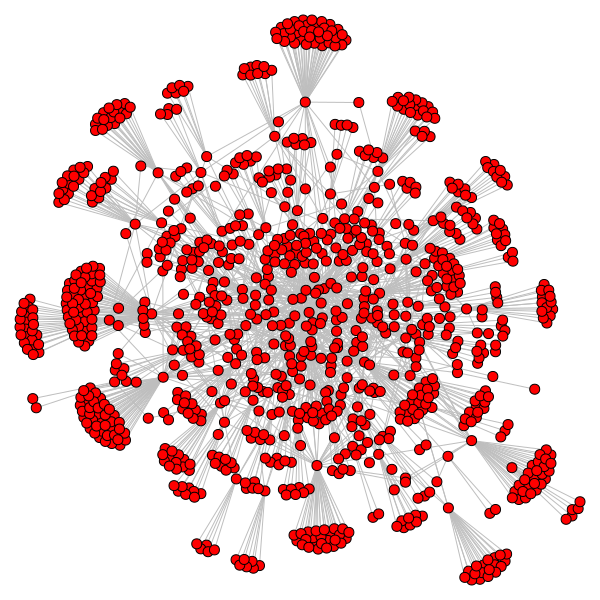
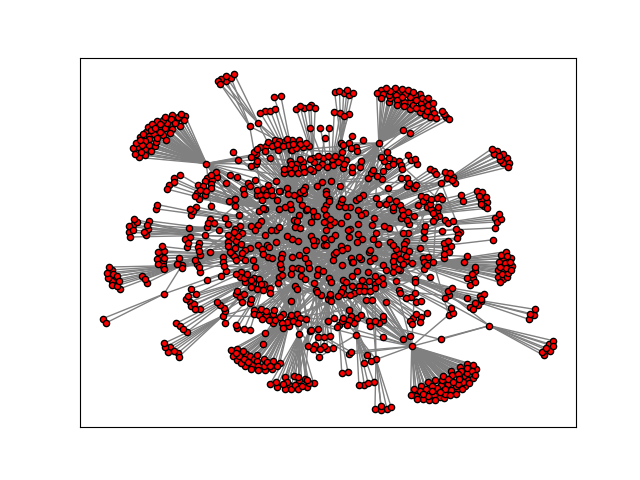
Restructure code into functions

diff --git a/demo.py b/demo.py
@@ -15,114 +15,169 @@
 from dimod import DiscreteQuadraticModel
 from dwave.system import LeapHybridDQMSampler
 import networkx as nx
-import matplotlib.pyplot as plt
-import igraph as ig
+import argparse
+import matplotlib
+try:
+    import matplotlib.pyplot as plt
+except ImportError:
+    matplotlib.use("agg")
+    import matplotlib.pyplot as plt
 
-print("\nReading in graph...")
+def read_in_args():
+    """ Read in user specified parameters or use defaults."""
 
-# Karate club graph: 33 nodes
-# G = nx.karate_club_graph()
+    # Set up user-specified optional arguments
+    parser = argparse.ArgumentParser()
+    parser.add_argument("-g", "--graph", default='karate', choices=['karate', 'internet', 'HEP'], help='Graph to partition (default: %(default)s)')
+    parser.add_argument("-n", "--nodes", help="Set graph size for internet graph. Must be between 1000 and 10000. (default: %(default)s)", default=1000, type=int)
 
-# Internet AS network graph
-G = nx.random_internet_as_graph(1000)
+    args = parser.parse_args()
+    
+    if args.graph == 'karate':
+        print("\nReading in karate graph...")
+        G = nx.karate_club_graph()
+    elif args.graph == 'internet':
+        if args.nodes < 1000 or args.nodes > 10000:
+            args.nodes = 1000
+            print("\nSize for internet graph must be between 1000 and 10000.\nSetting size to 1000.\n")
+        print("\nReading in internet graph of size", args.nodes, "...")
+        G = nx.random_internet_as_graph(args.nodes)
+    elif args.graph == 'HEP':
+        print("\nReading in HEP graph (this will take a while)...")
+        G = nx.read_pajek("hep-th-new.net")
 
-# HEP graph (HUGE and slow)
-# G = nx.read_pajek("hep-th-new.net")
+    return G
 
 # Visualize the input graph
-g1 = ig.Graph(len(G), list(zip(*list(zip(*nx.to_edgelist(G)))[:2])))
-layout = g1.layout("kk")
-visual_style = {}
-visual_style["vertex_size"] = 10
-visual_style["edge_color"] = ["gray"]
-ig.plot(g1, "input_graph.png", **visual_style)
+def visualize_input_graph(G):
+    """ Visualize graph to be partitioned."""
 
-# Two groups (cases 0, 1) and one separator group (case 2)
-num_groups = 3
+    pos = nx.spring_layout(G)
+    nx.draw_networkx_nodes(G, pos, node_size=20, node_color='r', edgecolors='k')
+    nx.draw_networkx_edges(G, pos, edgelist=G.edges(), style='solid', edge_color='#808080')
+    plt.draw()
+    plt.savefig('input_graph.png')
+    plt.close()
 
-# Lagrange parameter on constraint
-gamma = 1
+def build_dqm(G):
+    """ Build the DQM for the problem instance."""
 
-# Initialize the DQM object
-print("\nBuilding DQM...")
-dqm = DiscreteQuadraticModel()
+    # Two groups (cases 0, 1) and one separator group (case 2)
+    num_groups = 3
 
-# Build the DQM starting by adding variables
-for name in G.nodes():
-    dqm.add_variable(num_groups, label=name)
+    # Lagrange parameter on constraints
+    gamma_1 = 1
+    gamma2 = 100
 
-# Add objective to DQM
-for name in G.nodes():
-    dqm.set_linear_case(name, 2, 1)
+    # Initialize the DQM object
+    print("\nBuilding DQM...")
+    dqm = DiscreteQuadraticModel()
 
-# Add constraint to DQM: |G1|=|G2|
-all_nodes_ordered = list(G.nodes())
-# print(all_nodes_ordered[0])
-for i in range(len(all_nodes_ordered)):
-    dqm.set_linear_case(all_nodes_ordered[i], 0, gamma)
-    dqm.set_linear_case(all_nodes_ordered[i], 1, gamma)
-    for j in range(i+1, len(all_nodes_ordered)):
-        dqm.set_quadratic_case(all_nodes_ordered[i], 0, all_nodes_ordered[j], 0, 2*gamma)
-        dqm.set_quadratic_case(all_nodes_ordered[i], 1, all_nodes_ordered[j], 1, 2*gamma)
-        dqm.set_quadratic_case(all_nodes_ordered[i], 0, all_nodes_ordered[j], 1, -2*gamma)
-        dqm.set_quadratic_case(all_nodes_ordered[i], 1, all_nodes_ordered[j], 0, -2*gamma)
+    # Build the DQM starting by adding variables
+    for name in G.nodes():
+        dqm.add_variable(num_groups, label=name)
 
-# Add constraint to DQM: e(G1, G2) = 0
-gamma2 = 100
-for a, b in G.edges():
-    if a != b:
-        dqm.set_quadratic_case(a, 0, b, 1, gamma2)
-        dqm.set_quadratic_case(a, 1, b, 0, gamma2)
+    # Add objective to DQM
+    for name in G.nodes():
+        dqm.set_linear_case(name, 2, 1)
 
-# Initialize the DQM solver
-print("\nSending to the DQM solver...")
-sampler = LeapHybridDQMSampler()
+    # Add constraint to DQM: |G1|=|G2|
+    all_nodes_ordered = list(G.nodes())
+    for i in range(len(all_nodes_ordered)):
+        dqm.set_linear_case(all_nodes_ordered[i], 0, gamma_1)
+        dqm.set_linear_case(all_nodes_ordered[i], 1, gamma_1)
+        for j in range(i+1, len(all_nodes_ordered)):
+            dqm.set_quadratic_case(all_nodes_ordered[i], 0, all_nodes_ordered[j], 0, 2*gamma_1)
+            dqm.set_quadratic_case(all_nodes_ordered[i], 1, all_nodes_ordered[j], 1, 2*gamma_1)
+            dqm.set_quadratic_case(all_nodes_ordered[i], 0, all_nodes_ordered[j], 1, -2*gamma_1)
+            dqm.set_quadratic_case(all_nodes_ordered[i], 1, all_nodes_ordered[j], 0, -2*gamma_1)
 
-# Solve the problem using the DQM solver
-sampleset = sampler.sample_dqm(dqm, label='Example - Immunization Strategy')
+    # Add constraint to DQM: e(G1, G2) = 0
+    for a, b in G.edges():
+        if a != b:
+            dqm.set_quadratic_case(a, 0, b, 1, gamma2)
+            dqm.set_quadratic_case(a, 1, b, 0, gamma2)
 
-# Get the first solution, and print it
-sample = sampleset.first.sample
-energy = sampleset.first.energy
+    return dqm
 
-# Visualize output
-print("\nVisualizing output...")
-group_1 = []
-group_2 = []
-sep_group = []
-for key, val in sample.items():
-    if val == 0:
-        group_1.append(key)
-    elif val == 1:
-        group_2.append(key)
-    else:
-        sep_group.append(key)
+def run_dqm_and_collect_solutions(dqm, sampler):
+    """ Send the DQM to the sampler and return the best sample found."""
 
-# Display best result
-print("\nPartition Found:")
-print("\tGroup 1: \tSize", len(group_1))
-print("\tGroup 2: \tSize", len(group_2))
-print("\tSeparator: \tSize", len(sep_group))
+    # Initialize the solver
+    print("\nSending to the solver...")
+    
+    # Solve the DQM problem using the solver
+    sampleset = sampler.sample_dqm(dqm, label='Example - Immunization Strategy')
 
-illegal_edges = [(u, v) for u, v in G.edges if ({sample[u], sample[v]} == {0, 1})]
+    # Get the first solution, and print it
+    sample = sampleset.first.sample
 
-print("\nNumber of illegal edges:\t", len(illegal_edges))
+    return sample
 
-G1 = G.subgraph(group_1)
-G2 = G.subgraph(group_2)
-SG = G.subgraph(sep_group)
+def process_sample(G, sample):
+    """ Interpret the DQM solution in terms of the partitioning problem."""
 
-pos_1 = nx.random_layout(G1, center=(-5,0))
-pos_2 = nx.random_layout(G2, center=(5,0))
-pos_sep = nx.random_layout(SG, center=(0,0))
+    # Display results to user
+    group_1 = []
+    group_2 = []
+    sep_group = []
+    for key, val in sample.items():
+        if val == 0:
+            group_1.append(key)
+        elif val == 1:
+            group_2.append(key)
+        else:
+            sep_group.append(key)
 
-# pos = nx.spring_layout(G)
-pos = {**pos_1, **pos_2, **pos_sep}
-nx.draw_networkx_nodes(G, pos_1, node_size=10, nodelist=group_1, node_color='#17bebb', edgecolors='k')
-nx.draw_networkx_nodes(G, pos_2, node_size=10, nodelist=group_2, node_color='#2a7de1', edgecolors='k')
-nx.draw_networkx_nodes(G, pos_sep, node_size=10, nodelist=sep_group, node_color='#f37820', edgecolors='k')
+    # Display best result
+    print("\nPartition Found:")
+    print("\tGroup 1: \tSize", len(group_1))
+    print("\tGroup 2: \tSize", len(group_2))
+    print("\tSeparator: \tSize", len(sep_group))
 
-nx.draw_networkx_edges(G, pos, edgelist=G.edges(), style='solid', edge_color='#808080')
-nx.draw_networkx_edges(G, pos, edgelist=illegal_edges, style='solid')
-plt.draw()
-plt.savefig('separator.png')
+    print("\nSeparator Fraction: \t", len(sep_group)/len(G.nodes()))
+
+    illegal_edges = [(u, v) for u, v in G.edges if ({sample[u], sample[v]} == {0, 1})]
+
+    print("\nNumber of illegal edges:\t", len(illegal_edges))
+
+    return group_1, group_2, sep_group, illegal_edges
+
+def visualize_results(G, group_1, group_2, sep_group, illegal_edges):
+    """ Visualize the partition."""
+
+    print("\nVisualizing output...")
+
+    G1 = G.subgraph(group_1)
+    G2 = G.subgraph(group_2)
+    SG = G.subgraph(sep_group)
+
+    pos_1 = nx.random_layout(G1, center=(-5,0))
+    pos_2 = nx.random_layout(G2, center=(5,0))
+    pos_sep = nx.random_layout(SG, center=(0,0))
+
+    # pos = nx.spring_layout(G)
+    pos = {**pos_1, **pos_2, **pos_sep}
+    nx.draw_networkx_nodes(G, pos_1, node_size=10, nodelist=group_1, node_color='#17bebb', edgecolors='k')
+    nx.draw_networkx_nodes(G, pos_2, node_size=10, nodelist=group_2, node_color='#2a7de1', edgecolors='k')
+    nx.draw_networkx_nodes(G, pos_sep, node_size=10, nodelist=sep_group, node_color='#f37820', edgecolors='k')
+
+    nx.draw_networkx_edges(G, pos, edgelist=G.edges(), style='solid', edge_color='#808080')
+    nx.draw_networkx_edges(G, pos, edgelist=illegal_edges, style='solid')
+    plt.draw()
+    plt.savefig('separator.png')
+
+if __name__ == '__main__':
+
+    G = read_in_args()
+
+    visualize_input_graph(G)
+
+    dqm = build_dqm(G)
+
+    sampler = LeapHybridDQMSampler()
+    sample = run_dqm_and_collect_solutions(dqm, sampler)
+
+    group_1, group_2, sep_group, illegal_edges = process_sample(G, sample)
+
+    visualize_results(G, group_1, group_2, sep_group, illegal_edges)
